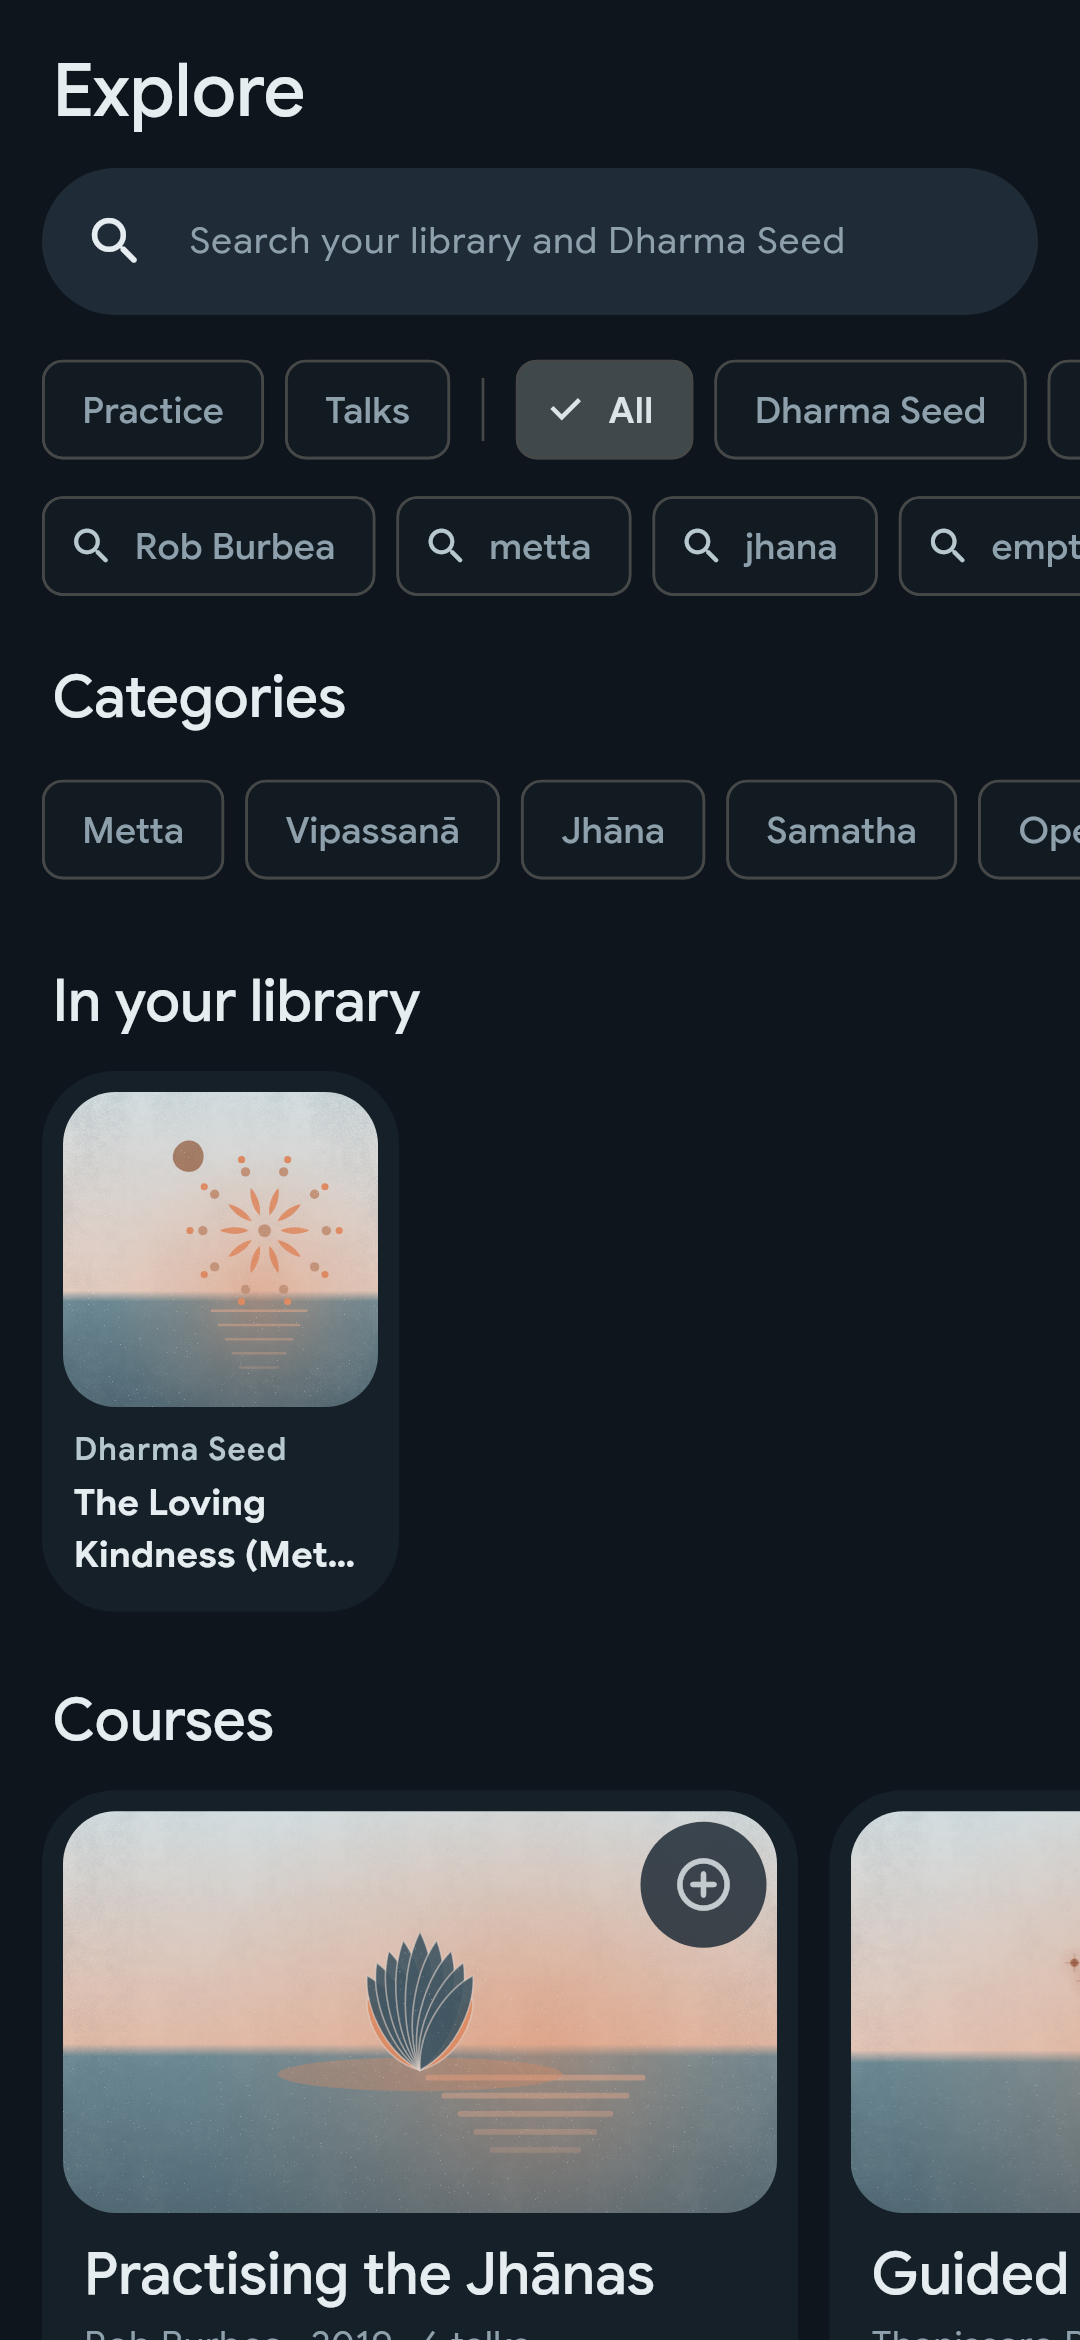
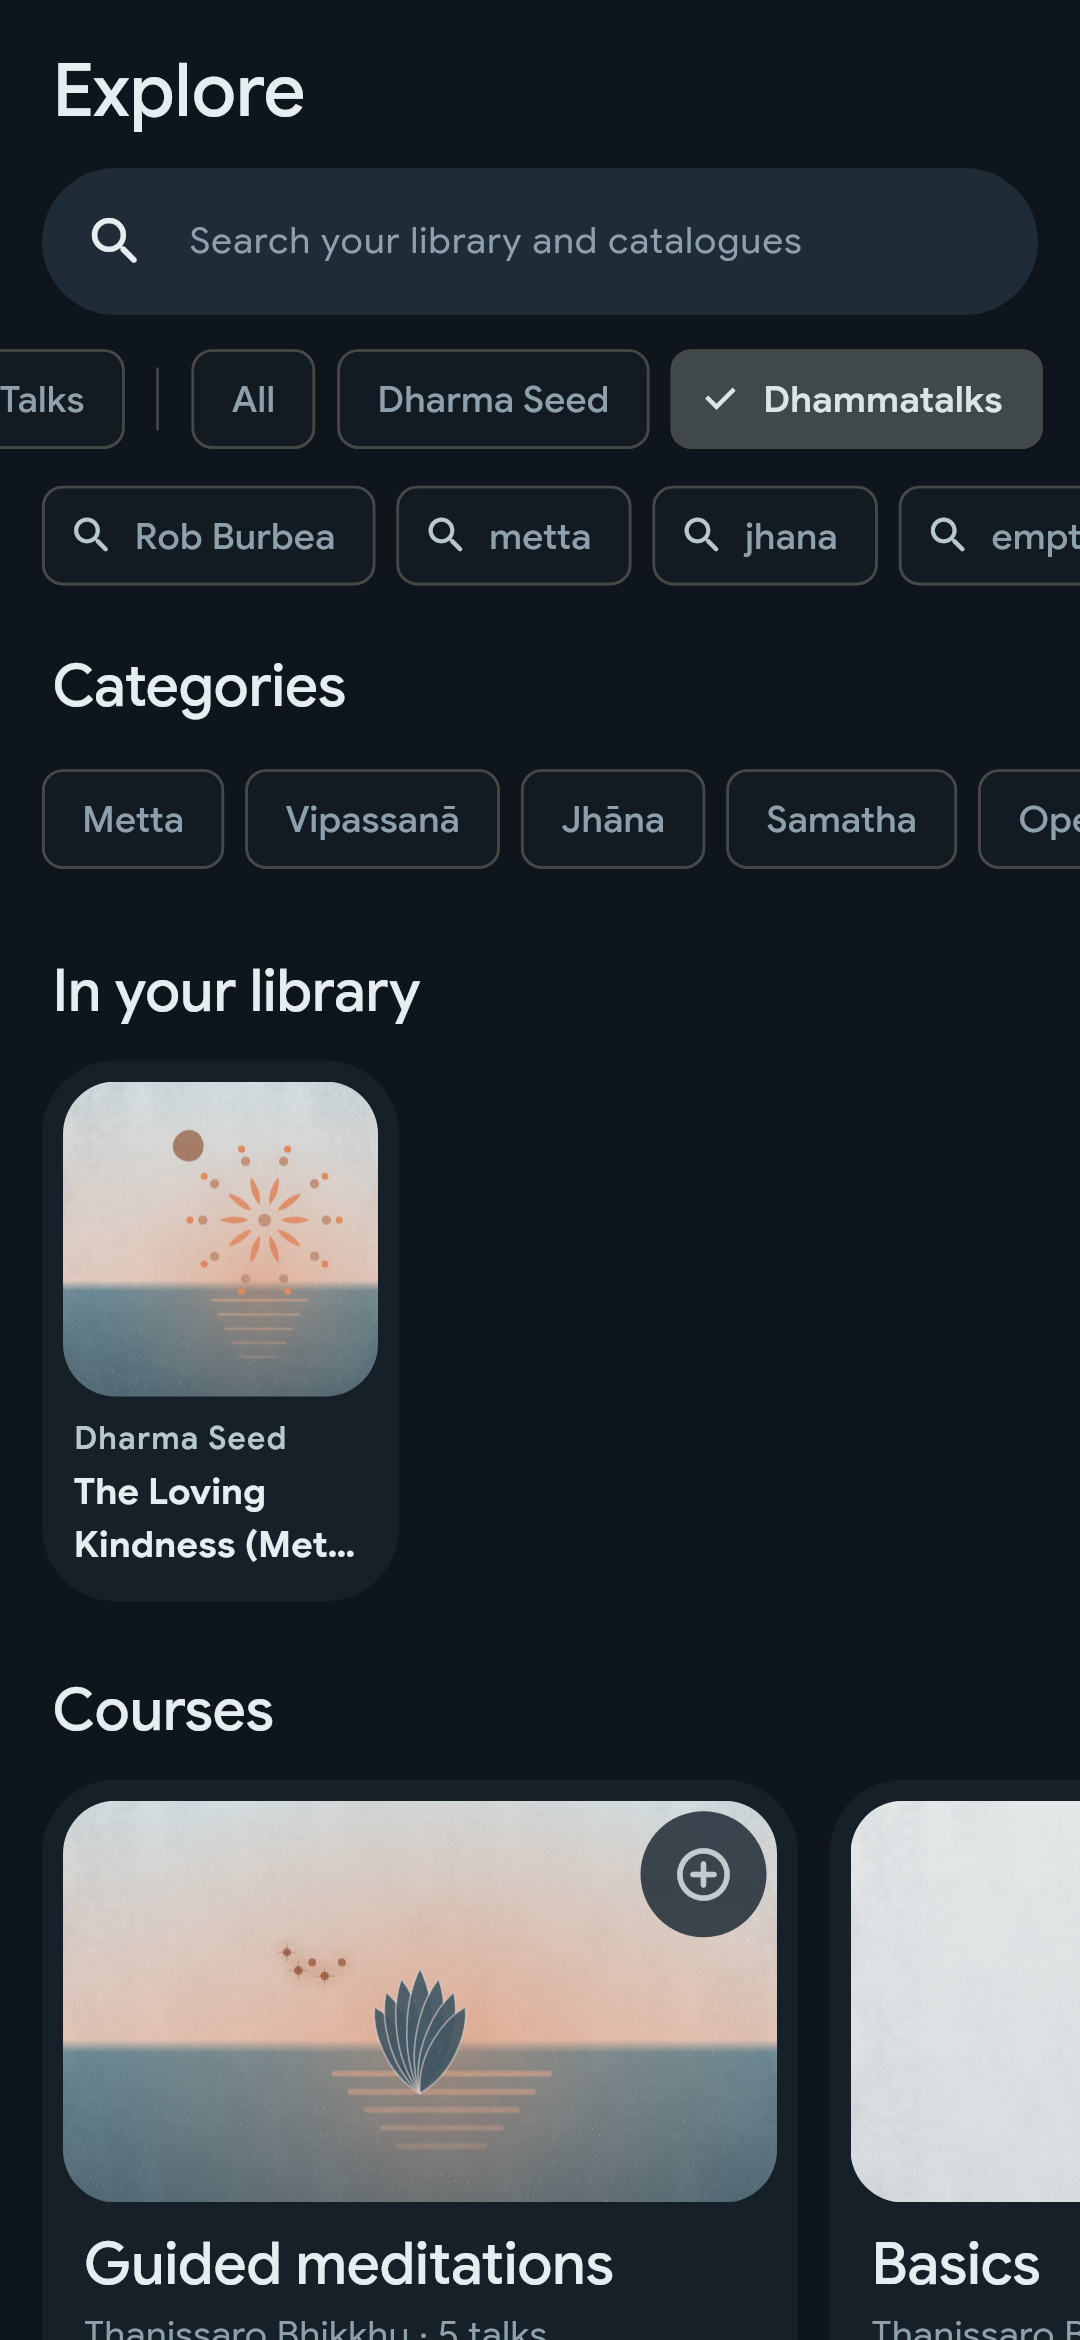
fix(explore): a shorter search hint that fits; Explore screenshots for All and Dhammatalks
The hint now reads 'Search your library and catalogues' (de, es translated) so
it does not truncate or need editing for each new catalogue.

Verified: analyze clean and 320 tests passed on the previous head; this adds
only the hint text (gen-l10n run) and regenerated screenshots (viewed).

diff --git a/lib/l10n/app_localizations.dart b/lib/l10n/app_localizations.dart
@@ -3571,7 +3571,7 @@ abstract class AppLocalizations {
   /// No description provided for @exploreSearchHint.
   ///
   /// In en, this message translates to:
-  /// **'Search your library, Dharma Seed and Dhammatalks'**
+  /// **'Search your library and catalogues'**
   String get exploreSearchHint;
 
   /// The shortcuts section's name in Customize, and its screen-reader heading on Home (not drawn)

diff --git a/lib/l10n/app_localizations_es.dart b/lib/l10n/app_localizations_es.dart
@@ -2051,8 +2051,7 @@ class AppLocalizationsEs extends AppLocalizations {
   String get navLibrary => 'Biblioteca';
 
   @override
-  String get exploreSearchHint =>
-      'Buscar en tu biblioteca, en Dharma Seed y en Dhammatalks';
+  String get exploreSearchHint => 'Buscar en tu biblioteca y catálogos';
 
   @override
   String get homeShortcutsTitle => 'Atajos';

diff --git a/lib/l10n/app_localizations_de.dart b/lib/l10n/app_localizations_de.dart
@@ -2046,8 +2046,7 @@ class AppLocalizationsDe extends AppLocalizations {
   String get navLibrary => 'Bibliothek';
 
   @override
-  String get exploreSearchHint =>
-      'Bibliothek, Dharma Seed und Dhammatalks durchsuchen';
+  String get exploreSearchHint => 'Bibliothek und Kataloge durchsuchen';
 
   @override
   String get homeShortcutsTitle => 'Kurzbefehle';

diff --git a/lib/l10n/app_localizations_en.dart b/lib/l10n/app_localizations_en.dart
@@ -2011,8 +2011,7 @@ class AppLocalizationsEn extends AppLocalizations {
   String get navLibrary => 'Library';
 
   @override
-  String get exploreSearchHint =>
-      'Search your library, Dharma Seed and Dhammatalks';
+  String get exploreSearchHint => 'Search your library and catalogues';
 
   @override
   String get homeShortcutsTitle => 'Shortcuts';
